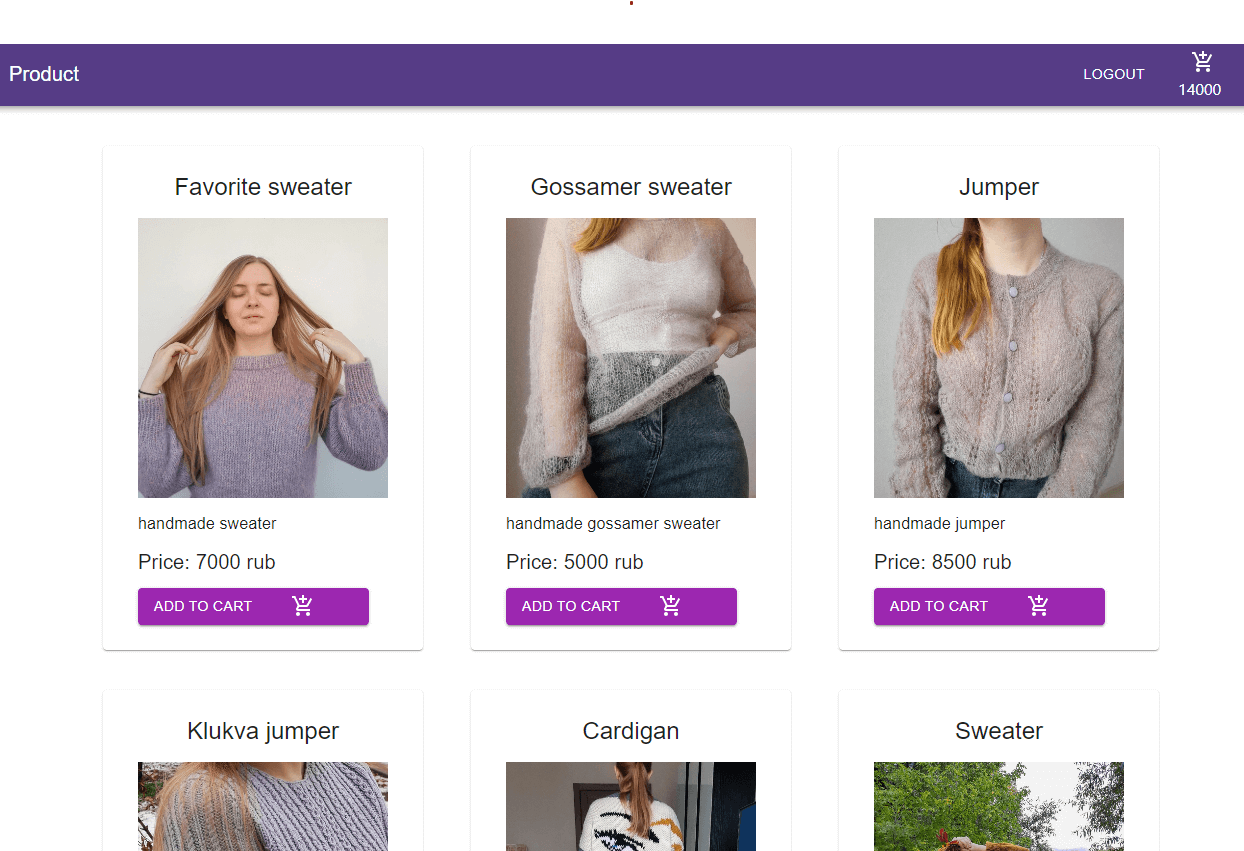
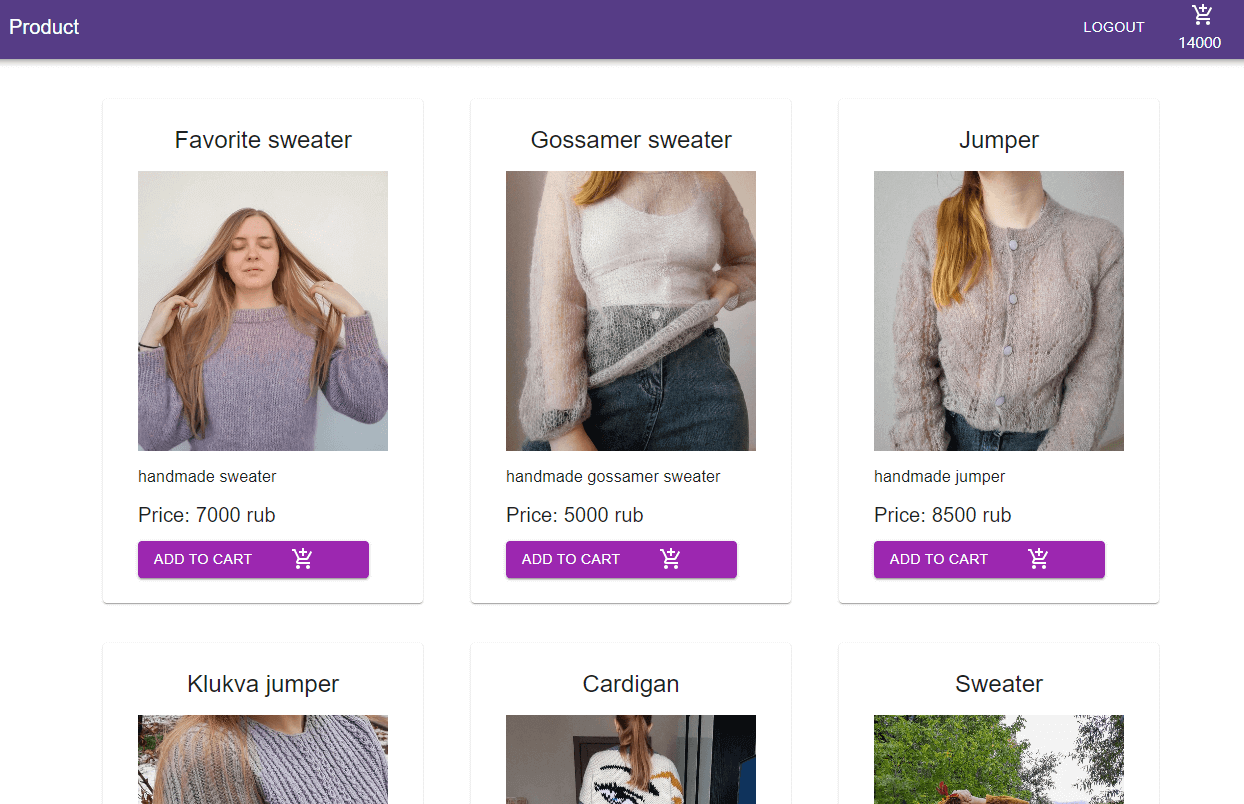
add new project, refactor header styles

diff --git a/src/data/data.ts b/src/data/data.ts
@@ -1,6 +1,7 @@
 import taskManager from '../assets/images/task-manager.webp'
 import social from '../assets/images/social.webp'
 import productPage from '../assets/images/product.webp'
+import nftArt from '../assets/images/nft-art.webp'
 import {theme} from '../styles/Theme';
 
 import {IconType} from 'react-icons';
@@ -181,6 +182,19 @@ The app allows users to log in (including through Google services) and access th
         technologies: [
             'React', 'Redux Toolkit', 'Firebase', 'TypeScript', 'CSS Modules',
             'Material UI', 'React Router Dom 6', 'Formik', 'Storybook'
+        ],
+    },
+
+    {
+        title: 'NFT-creative-art',
+        demoUrl: 'https://natkhomich.github.io/NFT-creative-art/',
+        githubUrl: 'https://github.com/NatKhomich/NFT-creative-art',
+        image: nftArt,
+        description: `
+The site is made according to the layout from Figma. With adaptive.
+        `,
+        technologies: [
+            'React', 'TypeScript', 'Styled components', 'React-awesome-reveal', 'React-scroll'
         ],
     },
 ]

diff --git a/src/layout/header/headerMenu/HeaderMenu_Styles.ts b/src/layout/header/headerMenu/HeaderMenu_Styles.ts
@@ -3,7 +3,28 @@ import {theme} from '../../../styles/Theme';
 import {Link} from 'react-scroll';
 
 //Menu
-const ListItem = styled.li``
+const ListItem = styled.li`
+  position: relative;
+
+  &::before {
+    content: '';
+    display: inline-block;
+    background-color: ${theme.colors.accent};
+    height: 0;
+    position: absolute;
+    bottom: -4px;
+    left: 0;
+    right: 0;
+    z-index: 3;
+  }
+
+  &:hover, &.active {
+    &::before {
+      transition: ${theme.animations.transition};
+      height: 3px;
+    }
+  }
+`
 
 const NavLink = styled(Link)`
   color: ${theme.colors.font};
@@ -12,13 +33,6 @@ const NavLink = styled(Link)`
   text-align: center;
   text-transform: capitalize;
   cursor: pointer;
-  transition: ${theme.animations.transition};
-
-  &:hover, &.active {
-    color: ${theme.colors.accent};
-    transition: ${theme.animations.transition};
-    
-  }
 `
 
 //Desktop
@@ -26,7 +40,7 @@ const DesktopMenu = styled.nav`
   ul {
     display: flex;
     justify-content: flex-end;
-    gap: 45px
+    gap: 55px
   }
 `
 

diff --git a/src/layout/footer/Footer.tsx b/src/layout/footer/Footer.tsx
@@ -22,7 +22,7 @@ export const Footer = () => {
                                 </li>
                             ))}
                         </S.SocialList>
-                        <S.Copyright> © 2023 Natalia Khomich, All Rights Reserved. </S.Copyright>
+                        <S.Copyright> © 2024 Natalia Khomich, All Rights Reserved. </S.Copyright>
                     </FlexWrapper>
                 </Container>
             </Fade>

diff --git a/src/App.tsx b/src/App.tsx
@@ -8,7 +8,7 @@ import {Particle} from './components/Particle';
 
 function App() {
     return (
-        <div className="App">
+        <>
             <Particle/>
             <Header/>
             <Main/>
@@ -16,7 +16,7 @@ function App() {
             <Projects/>
             <Contact/>
             <Footer/>
-        </div>
+        </>
     );
 }
 

diff --git a/src/layout/sections/projects/Projects_Styles.ts b/src/layout/sections/projects/Projects_Styles.ts
@@ -18,8 +18,8 @@ const Project = styled.div`
 `
 
 const ImageWrapper = styled.div`
-  width: 40%;
-  min-width: 380px;
+  width: 400px;
+  min-width: 400px;
   min-height: 300px;
   object-fit: cover;
   border-radius: 7px;

diff --git a/src/layout/header/Header_Styles.ts b/src/layout/header/Header_Styles.ts
@@ -2,7 +2,7 @@ import styled from 'styled-components';
 
 const Header = styled.header`
   background-color: rgba(31, 31, 32, 0.9);
-  padding: 20px 0;
+  padding: 30px 0;
   position: fixed;
   top: 0;
   left: 0;
